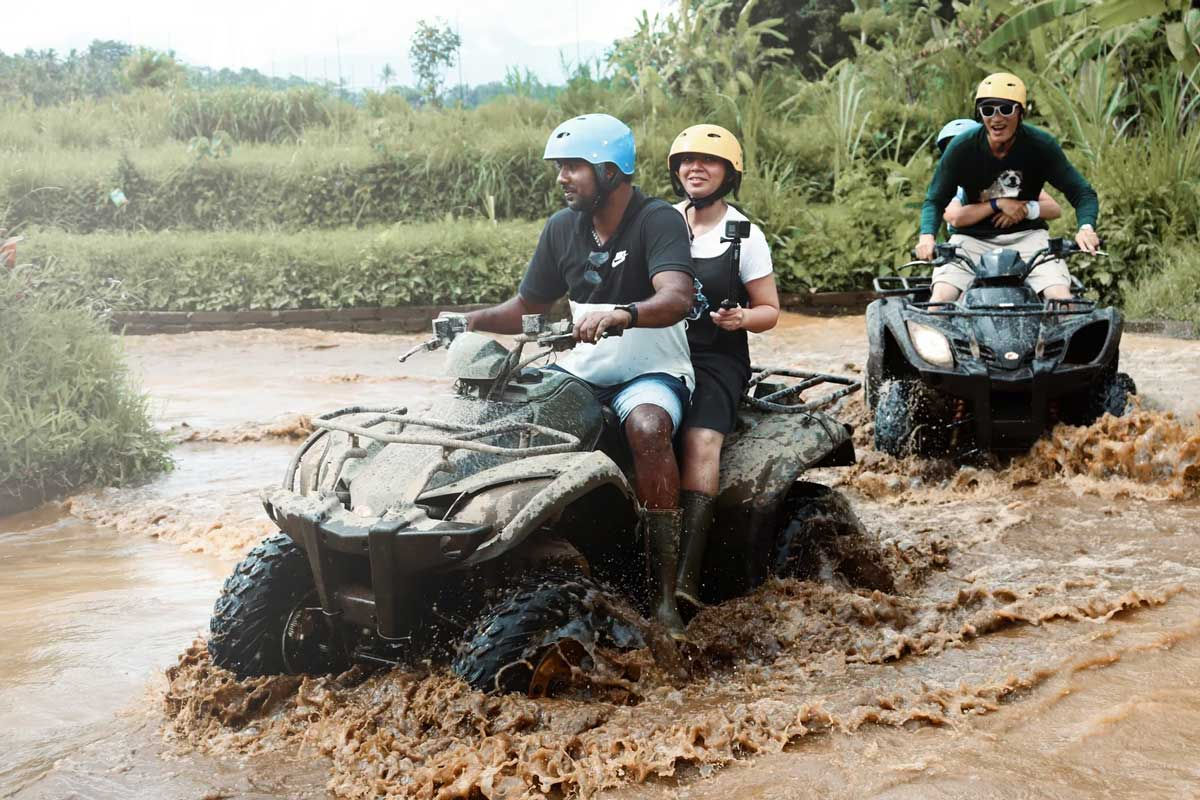
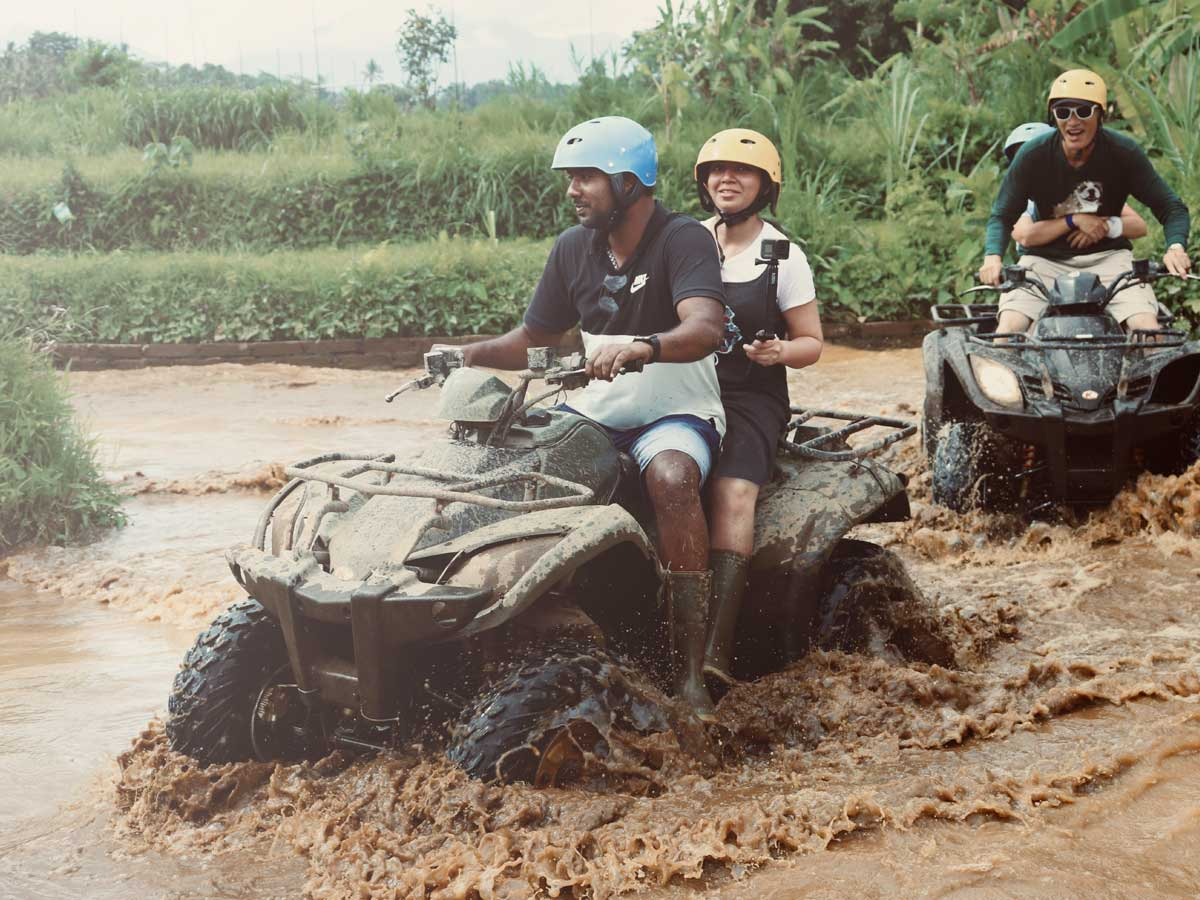
add image

diff --git a/apps/cue/index.html b/apps/cue/index.html
@@ -551,9 +551,7 @@
           <div
             class="slider__slide"
             data-img="barong"
-            style="
-              background-image: url(&quot;assets/images/barong-dance-bali.webp&quot;);
-            "
+            style="background-image: url(&quot;assets/images/barong.jpg&quot;)"
           >
             <div class="slider__caption"><h3>Barong Dance</h3></div>
           </div>
